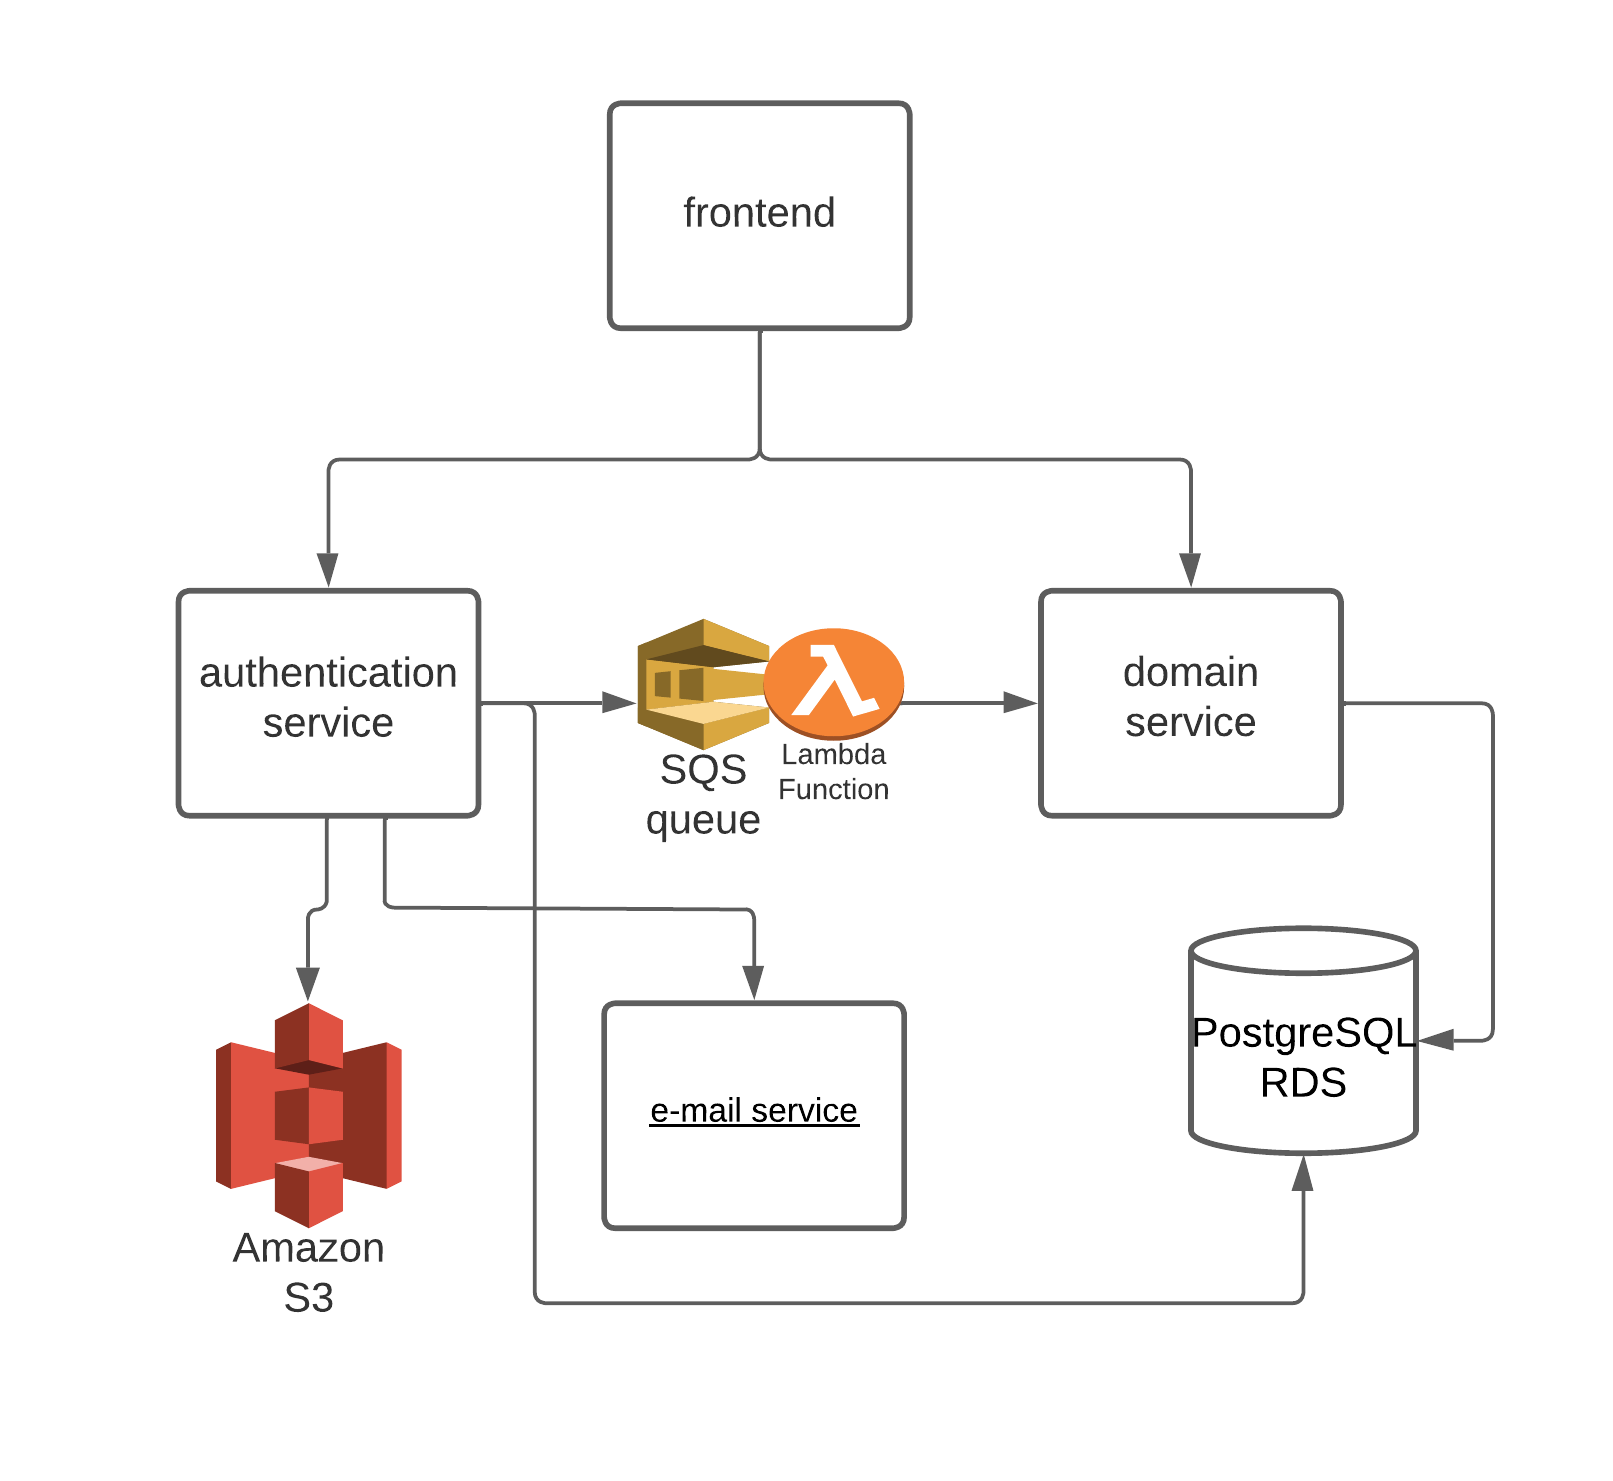
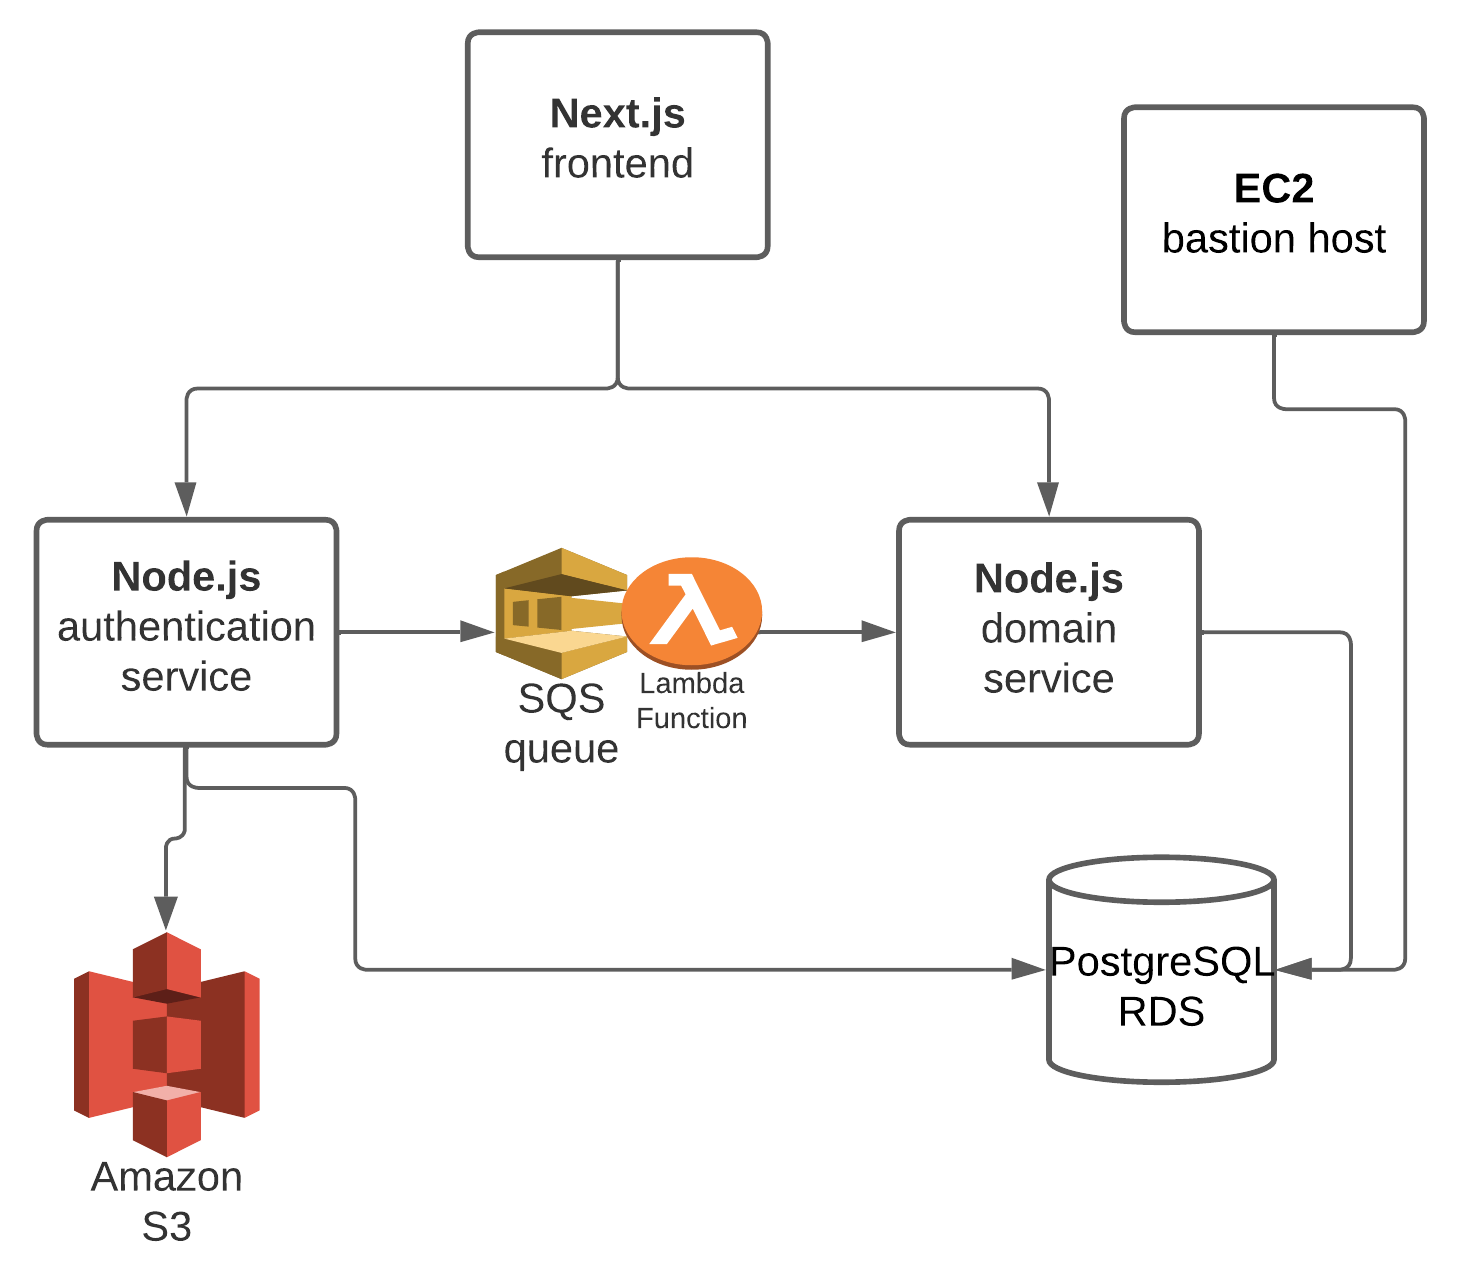
readme half way through

diff --git a/README.md b/README.md
@@ -7,43 +7,84 @@
 
 # Overview
 
-This is my Computer Engineering senior thesis. I got my degree at the end of 2022 at the University of São Paulo.
+This is my Computer Engineering senior thesis. I got my degree in 2022 from the University of São Paulo.
 
-The product is a language learning platform. Users can sign in as either instructors or students. Instructors will author language learning activities and students will complete them and get written feedback from their instructors.
+It is a language learning platform. Users can sign in as either instructors or students. Instructors will author language learning activities and students will complete them and get written feedback from their instructors.
 
-Watch [this video]() for a demonstration of how it works.
+![searching for activities](img/4.3.png)
+![doing activity](img/4.4.2.png)
+![seeing feedback](img/4.6.3.png)
 
-It is built using a microsservice architecture on AWS.
-
-# Technology
-
-## Architecture
-
-<img src="img/simplified-architecture.png" alt="drawing" width="450"/>
+Watch [this video](https://youtu.be/FuYyzwA2rWM) for a demonstration of how it works.
 
 <div>
   <img src="https://img.shields.io/badge/Next-black?style=for-the-badge&logo=next.js&logoColor=white" alt="" />
   <img src="https://img.shields.io/badge/TypeScript-007ACC?style=for-the-badge&logo=typescript&logoColor=white" alt="" />
   <img src="https://img.shields.io/badge/Node.js-339933?style=for-the-badge&logo=nodedotjs&logoColor=white" alt="" />
+    <img src="https://img.shields.io/badge/postgres-%23316192.svg?style=for-the-badge&logo=postgresql&logoColor=white" alt="" />
   <img src="https://img.shields.io/badge/docker-%230db7ed.svg?style=for-the-badge&logo=docker&logoColor=white" alt="" />
   <img src="https://img.shields.io/badge/terraform-%235835CC.svg?style=for-the-badge&logo=terraform&logoColor=white" alt="" />
   <img src="https://img.shields.io/badge/AWS-%23FF9900.svg?style=for-the-badge&logo=amazon-aws&logoColor=white" alt="" />
   <img src="https://img.shields.io/badge/github%20actions-%232671E5.svg?style=for-the-badge&logo=githubactions&logoColor=white" alt="" />
-  <img src="https://img.shields.io/badge/postgres-%23316192.svg?style=for-the-badge&logo=postgresql&logoColor=white" alt="" />
+
 </div>
 
-# Development
+# Architecture
 
-- When npm i is run (do it at project root), all package.json files are inspected and its dependencies are installed in the root node_modules
-- When postgres is started with a volume, its boot time is shorter, but it inherits the volume's database. To force it to create new databases, remove the volumes first.
-- If you add a new package to a server, you have to build the image all over again
+The app is designed as a client-server architecture with microsservices.
 
-## Prisma
+The frontend is in Next.js and deployed to Vercel.
 
-### [Schema Prototyping](https://www.prisma.io/docs/guides/database/prototyping-schema-db-push)
+The backend consists of two Node.js REST APIs, one that takes care of authentication and authorization and another one that does all the rest of the domain logic.
 
-- Do `npx prisma db push` to sync database with prisma schema. Used for dev only. If we add a required field without a default value, the table will have to be reset, losing its data. To do it, pass `--accept-data-loss`.
-- After having prototyped and arriving at a stable schema, do `npx prisma migrate dev --name initial-state` to generate an up migration of the initial schema, and after each change, do `npx prisma migrate dev --name migration-name`. This will generate migration files for each schema change. With this, we'll have a migration history. It will also create entries in a \_prisma_migrations table in the db.
+<img src="img/simplified-architecture.png" alt="drawing" width="450"/>
+
+All of the backend is in AWS. Both applications are Dockerized and deployed by ECS (with Fargate). They communicate via SQS, and persist their data on a single (for cost purposes) instance of RDS running Postgre. S3 is used to store user profile pictures.
+
+There is a bastion host inside the VPC which I can use to see the contents of the databases.
+
+There are two CICD pipelines, one which builds the Docker images and deploys the backend applications to a staging environment after pushes to _develop_ and another one which deploys those containers to a production environment after pushes to _main_. Github actions run tasks which check for linting, formatting and run automated tests.
+
+All of AWS infra is provisioned using Terraform (see the IaaC in _/infra_).
+
+# Authentication and Authorization
+
+The auth API takes care of all basic authentication funcionalities, such as sign up, sign in, change of passwords, verification of accounts, and change of profile pictures.
+
+When a user signs in, the auth app returns a JWT token with the user's current token version (which starts at 0 on sign up). The token is stored on the browser and sent on all requests to the domain app, which will respond to requests only if the token is valid and its token version is the user's most current one.
+
+When a user signs out, the auth app will increment the token version and send a message via the queue to the domain app, so that it persists the most current token version for that user. That allows me to invalidate and reject requests from all current sessions of a user.
+
+# Frontend
+
+It uses some version of [atomic design](https://atomicdesign.bradfrost.com/chapter-2/)
+
+# Backend
+
+## Clean Architecture
+
+The code design closely follows [Clean Architecture](https://blog.cleancoder.com/uncle-bob/2012/08/13/the-clean-architecture.html)
+
+![folder structure](img/clean-arch.png)
+
+## Platform Code
+
+Neither application needs to define framework code, s
+Since most dependencies, like the ones related to HTTP or AWS are shared, that code is treated as common [platform code](https://softwareengineeringdaily.com/2020/02/13/setting-the-stage-for-platform-engineering/).
+
+# Infrastructure
+
+## AWS and Terraform
+
+# Development Experience
+
+### Monorepo
+
+### Developing Locally
+
+### Pre-production and Production Environments
+
+### CICD
 
 # TODO
 
@@ -54,9 +95,6 @@ It is built using a microsservice architecture on AWS.
 ## Infrastructure
 
 - AWS Distro and OTeL for observability
-- Improve CICD. Following options have been tried
-- - Option 1 (currently implemented): Use a Codepipeline that triggers whenever the develop or main receive pushes and builds and deploys the project to its respective environment. Problem: can't select monorepo paths that trigger builds. Any update anywhere in the monorepo triggers builds of all services. In order to prevent unecessary builds, I have disabled the transition from the Source to the Build stage, and just trigger the pipeline manually whenever I want a new deploy.
-- - Option 2 (partially implemented in branch cicd-1): Employ a Codebuild project to listen to Github code changes. This accepts a webhook, which, in turn, lets you select paths. Then, this Codebuild project uses AWS CLI to trigger only the desired Codepipeline. Problems: Couldn't figure out how to build a pipeline that starts with the build stage, or has a source stage that only triggers with the CLI call. Also, very hacky.
-- - Option 3 (not yet explored). Use Github Actions to do CD too. It is currently only doing CI (testing and linting)
+- Improve CICD to support selective builds
 
 ## Frontend

diff --git a/notes-for-dev.md b/notes-for-dev.md
@@ -1,0 +1,17 @@
+# Development
+
+- When npm i is run (do it at project root), all package.json files are inspected and its dependencies are installed in the root node_modules
+- When postgres is started with a volume, its boot time is shorter, but it inherits the volume's database. To force it to create new databases, remove the volumes first.
+- If you add a new package to a server, you have to build the image all over again
+
+## Prisma
+
+### [Schema Prototyping](https://www.prisma.io/docs/guides/database/prototyping-schema-db-push)
+
+- Do `npx prisma db push` to sync database with prisma schema. Used for dev only. If we add a required field without a default value, the table will have to be reset, losing its data. To do it, pass `--accept-data-loss`.
+- After having prototyped and arriving at a stable schema, do `npx prisma migrate dev --name initial-state` to generate an up migration of the initial schema, and after each change, do `npx prisma migrate dev --name migration-name`. This will generate migration files for each schema change. With this, we'll have a migration history. It will also create entries in a \_prisma_migrations table in the db.
+
+- Improve CICD. Following options have been tried
+- - Option 1 (currently implemented): Use a Codepipeline that triggers whenever the develop or main receive pushes and builds and deploys the project to its respective environment. Problem: can't select monorepo paths that trigger builds. Any update anywhere in the monorepo triggers builds of all services. In order to prevent unecessary builds, I have disabled the transition from the Source to the Build stage, and just trigger the pipeline manually whenever I want a new deploy.
+- - Option 2 (partially implemented in branch cicd-1): Employ a Codebuild project to listen to Github code changes. This accepts a webhook, which, in turn, lets you select paths. Then, this Codebuild project uses AWS CLI to trigger only the desired Codepipeline. Problems: Couldn't figure out how to build a pipeline that starts with the build stage, or has a source stage that only triggers with the CLI call. Also, very hacky.
+- - Option 3 (not yet explored). Use Github Actions to do CD too. It is currently only doing CI (testing and linting)
